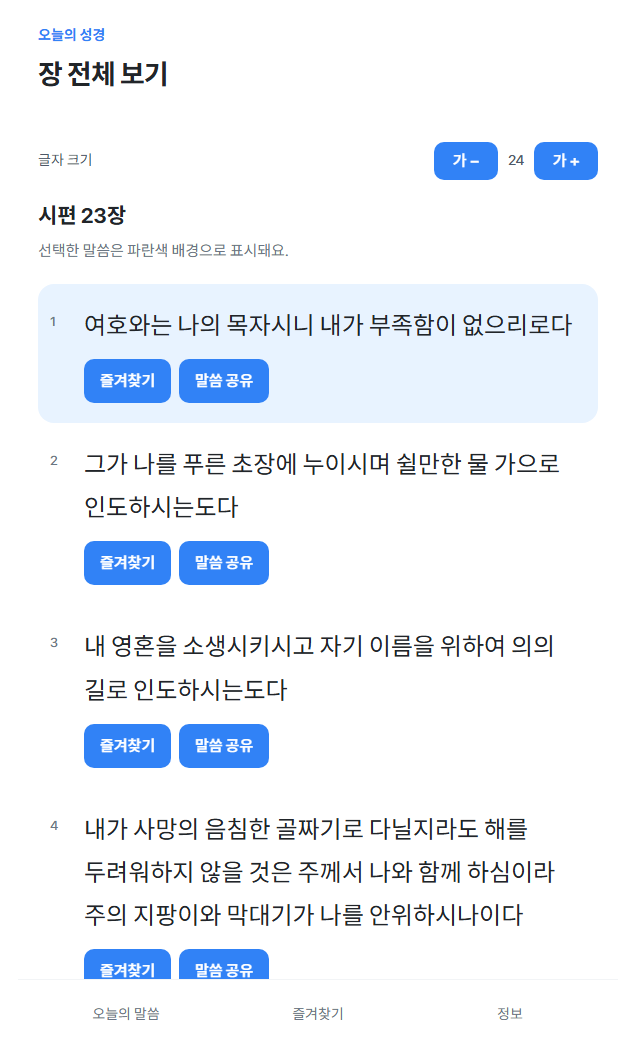
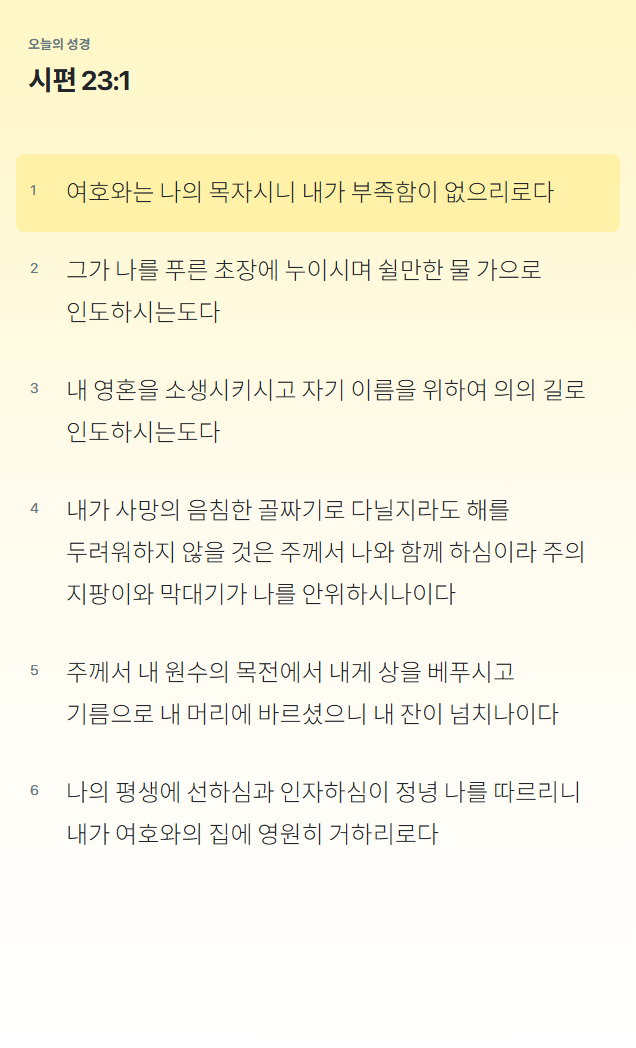
Restore legacy app design in Toss screenshots

diff --git a/toss-miniapp/src/App.tsx b/toss-miniapp/src/App.tsx
@@ -6,6 +6,16 @@ import { browserStorage, clearPreferences, defaults, FONT_SIZES, readPreferences
 import { shareText } from './share';
 import { isToss, listenBack, listenSafeArea, nativeShare } from './toss';
 
+type IconName = 'home' | 'heart' | 'info' | 'refresh' | 'share';
+function AppIcon({ name, filled = false }: { name: IconName; filled?: boolean }) {
+  const common = { width: 24, height: 24, viewBox: '0 0 24 24', fill: filled ? 'currentColor' : 'none', stroke: 'currentColor', strokeWidth: 1.8, strokeLinecap: 'round' as const, strokeLinejoin: 'round' as const, 'aria-hidden': true };
+  if (name === 'heart') return <svg {...common}><path d="M20.8 4.7a5.5 5.5 0 0 0-7.8 0L12 5.8l-1.1-1.1a5.5 5.5 0 0 0-7.8 7.8L12 21l8.8-8.5a5.5 5.5 0 0 0 0-7.8Z" /></svg>;
+  if (name === 'home') return <svg {...common}><path d="m3 10 9-7 9 7v10a1 1 0 0 1-1 1h-5v-7H9v7H4a1 1 0 0 1-1-1Z" /></svg>;
+  if (name === 'info') return <svg {...common}><circle cx="12" cy="12" r="9"/><path d="M12 11v6M12 7.5h.01"/></svg>;
+  if (name === 'refresh') return <svg {...common}><path d="M20 6v5h-5M4 18v-5h5"/><path d="M18.2 9A7 7 0 0 0 6.3 6.3L4 8m16 8-2.3 1.7A7 7 0 0 1 5.8 15"/></svg>;
+  return <svg {...common}><circle cx="18" cy="5" r="2.5"/><circle cx="6" cy="12" r="2.5"/><circle cx="18" cy="19" r="2.5"/><path d="m8.2 10.8 7.6-4.5M8.2 13.2l7.6 4.5"/></svg>;
+}
+
 type Route = { page: 'today' | 'favorites' | 'info' | 'privacy' | 'licenses' } | { page: 'chapter'; id: string };
 function getRoute(): Route {
   const hash = window.location.hash.slice(1);
@@ -87,47 +97,40 @@ export function App() {
     } finally { setSharing(false); }
   }, [sharing]);
 
-  function verseActions(v: Verse, showChapter = true) {
-    if (!v.text) return null;
-    const saved = prefs.favorites.includes(v.id);
-    return <div className="actions">
-      <Button size="medium" variant="weak" color={saved ? 'primary' : 'dark'} aria-pressed={saved} aria-label={`${reference(v)} 즐겨찾기 ${saved ? '해제' : '저장'}`} onClick={() => toggle(v)}>{saved ? '저장됨' : '즐겨찾기'}</Button>
-      <Button size="medium" variant="weak" color="dark" disabled={sharing} onClick={() => void shareVerse(v)}>말씀 공유</Button>
-      {showChapter && <Button size="medium" variant="weak" color="dark" onClick={() => go(`chapter/${encodeURIComponent(v.id)}`)}>장 전체 보기</Button>}
-    </div>;
-  }
-  const title = { today: '오늘, 마음에 담을 말씀', favorites: '나의 즐겨찾기', info: '정보와 설정', privacy: '개인정보처리방침', licenses: '오픈소스 안내', chapter: '장 전체 보기' }[route.page];
+  const fontControls = <div className="font-controls" aria-label="말씀 글자 크기">
+    <button className="round-control" aria-label="글자 작게" disabled={prefs.fontSize === FONT_SIZES[0]} onClick={() => updatePreferences({ ...prefs, fontSize: FONT_SIZES[Math.max(0, FONT_SIZES.indexOf(prefs.fontSize as typeof FONT_SIZES[number]) - 1)] }, '글자 크기를 저장했어요.')}>−</button>
+    <button className="font-reset" aria-label="글자 크기 기본값" onClick={() => updatePreferences({ ...prefs, fontSize: 24 }, '기본 글자 크기로 돌아왔어요.')}>Aa</button>
+    <button className="round-control" aria-label="글자 크게" disabled={prefs.fontSize === FONT_SIZES[4]} onClick={() => updatePreferences({ ...prefs, fontSize: FONT_SIZES[Math.min(4, FONT_SIZES.indexOf(prefs.fontSize as typeof FONT_SIZES[number]) + 1)] }, '글자 크기를 저장했어요.')}>+</button>
+  </div>;
   const selected = route.page === 'chapter' ? bible?.byId.get(route.id) : undefined;
   const chapter = selected ? bible?.chapters.get(chapterKey(selected)) : undefined;
+  const title = route.page === 'chapter' && selected
+    ? reference(selected).replace('장 ', ':').replace('절', '')
+    : { today: '오늘, 마음에 담을 말씀', favorites: '나의 즐겨찾기', info: '정보와 설정', privacy: '개인정보처리방침', licenses: '오픈소스 안내', chapter: '장 전체 보기' }[route.page];
 
-  return <div className="app">
+  return <div className={`app page-${route.page}`}>
     <main>
-      <header className="page-heading"><p className="eyebrow">오늘의 성경</p><h1 ref={heading} tabIndex={-1}>{title}</h1>
-        {route.page === 'today' && <p className="muted">잠시 멈추고, 한 구절을 천천히 읽어보세요.</p>}
-      </header>
+      {route.page !== 'today' && <header className="page-heading"><p className="eyebrow">오늘의 성경</p><h1 ref={heading} tabIndex={-1}>{title}</h1></header>}
       <p className="status" role="status" aria-live="polite">{notice}</p>
       {!bible && !error && <p role="status" className="empty">말씀을 준비하고 있어요…</p>}
       {error && <div className="empty" role="alert"><p>{error}</p><Button onClick={() => { setError(''); setAttempt(a => a + 1); }}>다시 불러오기</Button></div>}
       {bible && <>
-        {['today', 'chapter', 'favorites'].includes(route.page) && <div className="font-controls" aria-label="말씀 글자 크기">
-          <span>글자 크기</span><div className="font-buttons">
-            <Button size="medium" variant="weak" color="dark" aria-label="글자 작게" disabled={prefs.fontSize === FONT_SIZES[0]} onClick={() => updatePreferences({ ...prefs, fontSize: FONT_SIZES[Math.max(0, FONT_SIZES.indexOf(prefs.fontSize as typeof FONT_SIZES[number]) - 1)] }, '글자 크기를 저장했어요.')}>가 −</Button>
-            <span aria-label={`글자 크기 ${prefs.fontSize}`}>{prefs.fontSize}</span>
-            <Button size="medium" variant="weak" color="dark" aria-label="글자 크게" disabled={prefs.fontSize === FONT_SIZES[4]} onClick={() => updatePreferences({ ...prefs, fontSize: FONT_SIZES[Math.min(4, FONT_SIZES.indexOf(prefs.fontSize as typeof FONT_SIZES[number]) + 1)] }, '글자 크기를 저장했어요.')}>가 +</Button>
-          </div>
-        </div>}
         {route.page === 'today' && current && <>
-          <article className="verse-card" aria-label="오늘의 말씀"><p className="reference">{reference(current)}</p><blockquote style={{ fontSize: prefs.fontSize }}>{current.text}</blockquote><p className="translation">개역성경</p></article>
-          {verseActions(current)}
-          <Button display="full" onClick={() => { setCurrent(randomVerse(bible.verses, current.id)); setManualText(''); setNotice('새로운 말씀을 골랐어요.'); }}>다른 말씀 읽기</Button>
-          <p className="footnote">말씀은 성경 전체에서 무작위로 골라요.</p>
+          <article className="verse-card" aria-label="오늘의 말씀">
+            <div className="verse-card-heading"><h1 ref={heading} tabIndex={-1}>{reference(current).replace('장 ', ':').replace('절', '')}</h1><button className={`heart-button ${prefs.favorites.includes(current.id) ? 'saved' : ''}`} aria-label="즐겨찾기" onClick={() => toggle(current)}><AppIcon name="heart" filled={prefs.favorites.includes(current.id)} /></button></div>
+            <blockquote style={{ fontSize: prefs.fontSize }}>{current.text}</blockquote>
+            <button className="chapter-link" onClick={() => go(`chapter/${encodeURIComponent(current.id)}`)}>{current.chapter}장 전체 보기</button>
+            <div className="icon-actions"><button aria-label="다른 말씀 읽기" onClick={() => { setCurrent(randomVerse(bible.verses, current.id)); setManualText(''); setNotice('새로운 말씀을 골랐어요.'); }}><AppIcon name="refresh" /></button><button aria-label="말씀 공유" disabled={sharing} onClick={() => void shareVerse(current)}><AppIcon name="share" /></button></div>
+          </article>
+          {fontControls}
         </>}
         {route.page === 'favorites' && <>
+          {fontControls}
           <p className="muted">마음에 담은 말씀 {prefs.favorites.length}개</p>
-          {prefs.favorites.length === 0 ? <div className="empty"><h2>아직 저장한 말씀이 없어요</h2><p>다시 읽고 싶은 말씀을 즐겨찾기에 담아보세요.</p><Button variant="weak" onClick={() => go('today')}>말씀 읽으러 가기</Button></div> : prefs.favorites.map(id => bible.byId.get(id)).filter((v): v is Verse => !!v).map(v => <article key={v.id} className="favorite-card"><h2 className="reference">{reference(v)}</h2><p className="verse-text" style={{ fontSize: prefs.fontSize }}>{v.text}</p>{verseActions(v)}</article>)}
+          {prefs.favorites.length === 0 ? <div className="empty"><h2>즐겨찾기한 말씀이 없습니다.</h2><Button variant="weak" onClick={() => go('today')}>말씀 읽으러 가기</Button></div> : prefs.favorites.map(id => bible.byId.get(id)).filter((v): v is Verse => !!v).map(v => <article key={v.id} className="favorite-card"><div className="favorite-heading"><h2 className="reference">{reference(v).replace('장 ', ':').replace('절', '')}</h2><button className="heart-button saved" aria-label="즐겨찾기 삭제" onClick={() => toggle(v)}><AppIcon name="heart" filled /></button></div><p className="verse-text" style={{ fontSize: prefs.fontSize }}>{v.text}</p><div className="favorite-footer"><button onClick={() => go(`chapter/${encodeURIComponent(v.id)}`)}>전체 보기</button><button aria-label="말씀 공유" onClick={() => void shareVerse(v)}><AppIcon name="share" /></button></div></article>)}
           <p className="footnote">이 기기에 저장돼요. 다른 기기나 테스트 환경에는 자동으로 동기화되지 않아요.</p>
         </>}
-        {route.page === 'chapter' && (selected && chapter ? <section><h2>{selected.bookName} {selected.chapter}장</h2><p className="muted">선택한 말씀은 파란색 배경으로 표시돼요.</p><ol className="chapter-list">{chapter.map(v => <li key={v.id} value={v.verse} className={v.id === selected.id ? 'selected' : ''}><span className="verse-number">{v.verse}</span><div><p className="verse-text" style={{ fontSize: prefs.fontSize }}>{v.text || '원본 데이터에 본문이 없는 구절이에요.'}</p>{verseActions(v, false)}</div></li>)}</ol></section> : <div className="empty"><p>찾을 수 없는 말씀이에요.</p><Button onClick={() => go('today')}>오늘의 말씀 보기</Button></div>)}
+        {route.page === 'chapter' && (selected && chapter ? <section><ol className="chapter-list">{chapter.map(v => <li key={v.id} value={v.verse} className={v.id === selected.id ? 'selected' : ''}><span className="verse-number">{v.verse}</span><div><p className="verse-text" style={{ fontSize: prefs.fontSize }}>{v.text || '원본 데이터에 본문이 없는 구절이에요.'}</p></div></li>)}</ol></section> : <div className="empty"><p>찾을 수 없는 말씀이에요.</p><Button onClick={() => go('today')}>오늘의 말씀 보기</Button></div>)}
         {route.page === 'info' && <section className="info">
           <h2>매일 한 구절, 가까이</h2><p>개역성경을 읽고 마음에 남는 말씀을 간직하세요.</p>
           <div className="info-links"><Button variant="weak" color="dark" display="full" onClick={() => go('privacy')}>개인정보처리방침</Button><Button variant="weak" color="dark" display="full" onClick={() => go('licenses')}>오픈소스 안내</Button></div>
@@ -148,7 +151,7 @@ export function App() {
       </>}
       {manualText && <section className="manual-share"><h2>말씀 복사</h2><textarea aria-label="공유할 말씀" readOnly value={manualText} onFocus={e => e.target.select()} /><Button variant="weak" onClick={async () => { try { await navigator.clipboard.writeText(manualText); setNotice('말씀을 복사했어요.'); setManualText(''); } catch { setNotice('위 말씀을 길게 눌러 직접 복사해 주세요.'); } }}>복사하기</Button><Button color="dark" variant="weak" onClick={() => setManualText('')}>닫기</Button></section>}
     </main>
-    <nav className="bottom-nav" aria-label="주요 메뉴">{([['today', '오늘의 말씀'], ['favorites', '즐겨찾기'], ['info', '정보']] as const).map(([page, label]) => <button key={page} aria-current={route.page === page ? 'page' : undefined} onClick={() => go(page)}>{label}</button>)}</nav>
+    {['today', 'favorites', 'info'].includes(route.page) && <nav className="bottom-nav" aria-label="주요 메뉴">{([['today', '홈', 'home'], ['favorites', '즐겨찾기', 'heart'], ['info', '정보', 'info']] as const).map(([page, label, icon]) => <button key={page} aria-current={route.page === page ? 'page' : undefined} onClick={() => go(page)}><AppIcon name={icon} filled={page === 'favorites' && route.page === page}/><span>{label}</span></button>)}</nav>}
   </div>;
 }
 

diff --git a/toss-miniapp/src/style.css b/toss-miniapp/src/style.css
@@ -1,46 +1,69 @@
-:root { font-family: -apple-system, BlinkMacSystemFont, 'Segoe UI', sans-serif; color: #191f28; background: #fff; color-scheme: light; font-synthesis: none; --toss-safe-bottom: env(safe-area-inset-bottom, 0px); }
+@font-face { font-family: 'BookkGothic'; src: url('../../assets/fonts/BookkGothic_Light.ttf') format('truetype'); font-weight: 300; font-display: swap; }
+@font-face { font-family: 'BookkGothic'; src: url('../../assets/fonts/BookkGothic_Bold.ttf') format('truetype'); font-weight: 700; font-display: swap; }
+:root { font-family: 'BookkGothic', -apple-system, BlinkMacSystemFont, 'Segoe UI', sans-serif; color: #202124; background: #fff; color-scheme: light; font-synthesis: none; --safe-bottom: env(safe-area-inset-bottom, 0px); }
 * { box-sizing: border-box; }
+html, body, #root { min-height: 100%; }
 body { margin: 0; }
 button, textarea { font: inherit; }
 button { touch-action: manipulation; cursor: pointer; }
-button:focus-visible, textarea:focus-visible { outline: 3px solid #3182f6; outline-offset: 3px; }
+button:focus-visible, textarea:focus-visible { outline: 3px solid #596d7a; outline-offset: 3px; }
 h1:focus { outline: none; }
-.app { max-width: 600px; margin: auto; }
-main { padding: 24px 20px calc(105px + var(--toss-safe-bottom)); }
+.app { width: min(100%, 636px); min-height: 100dvh; margin: auto; background: linear-gradient(180deg, #e4f1f6 0%, #f6fafb 42%, #fff 100%); }
+main { min-height: 100dvh; padding: 34px 28px calc(105px + var(--safe-bottom)); }
+.page-today main { padding-top: 126px; }
+.page-chapter { background: linear-gradient(180deg, #fff7c5 0%, #fffbee 48%, #fff 100%); }
 .page-heading { margin-bottom: 12px; }
-.eyebrow { color: #3182f6; font-size: 14px; font-weight: 700; margin: 0 0 10px; }
+.eyebrow { color: #667780; font-size: 13px; font-weight: 700; margin: 0 0 8px; }
 h1 { font-size: 27px; line-height: 1.35; letter-spacing: -.7px; margin: 0 0 12px; word-break: keep-all; }
-h2 { font-size: 21px; line-height: 1.5; }
+h2 { font-size: 22px; line-height: 1.5; }
 p { line-height: 1.65; }
-.muted, .footnote { color: #6b7684; }
+.muted, .footnote { color: #68777f; }
 .muted { font-size: 15px; }
-.status { color: #4e5968; font-size: 14px; min-height: 24px; margin: 8px 0; }
-.font-controls { display: flex; justify-content: space-between; align-items: center; gap: 8px; margin: 12px 0 20px; color: #4e5968; font-size: 14px; }
-.font-buttons { display: flex; align-items: center; gap: 10px; }
-.verse-card { background: #f2f6fc; border-radius: 24px; padding: 28px 24px; margin-bottom: 18px; }
-.reference { color: #1b64da; font-size: 15px; font-weight: 600; margin: 0 0 20px; }
-blockquote { margin: 0; line-height: 1.8; letter-spacing: -.4px; overflow-wrap: anywhere; word-break: keep-all; }
-.translation { font-size: 13px; color: #6b7684; margin: 24px 0 0; }
-.actions { display: flex; flex-wrap: wrap; gap: 8px; margin: 16px 0 24px; }
-.actions > button { min-height: 44px; }
-.footnote { text-align: center; font-size: 13px; margin: 20px 0; }
-.bottom-nav { position: fixed; bottom: 0; left: 50%; transform: translateX(-50%); width: min(100%, 600px); display: grid; grid-template-columns: repeat(3, 1fr); background: #fff; border-top: 1px solid #f2f4f6; padding: 8px 12px calc(8px + var(--toss-safe-bottom)); z-index: 10; }
-.bottom-nav button { min-height: 52px; border: 0; background: transparent; color: #6b7684; font-size: 14px; border-radius: 12px; }
-.bottom-nav button[aria-current] { background: #e8f3ff; color: #1b64da; font-weight: 700; }
-.favorite-card { padding: 24px 0; border-bottom: 1px solid #e5e8eb; }
-.verse-text { line-height: 1.8; margin: 0; overflow-wrap: anywhere; word-break: keep-all; }
-.empty { padding: 40px 0; text-align: center; color: #4e5968; }
-.empty h2 { color: #191f28; }
-.chapter-list { list-style: none; margin: 20px 0; padding: 0; }
-.chapter-list li { display: grid; grid-template-columns: 26px 1fr; gap: 8px; padding: 20px 12px; border-radius: 16px; }
-.chapter-list li.selected { background: #e8f3ff; }
-.verse-number { color: #6b7684; font-size: 13px; padding-top: 8px; }
-.chapter-list .actions { margin: 12px 0 0; }
+.status { color: #53636c; font-size: 13px; min-height: 22px; margin: 0 0 10px; text-align: center; }
+.page-today .status:empty { display: none; }
+.verse-card { background: rgba(255,255,255,.97); border: 1px solid rgba(255,255,255,.95); border-radius: 18px; padding: 28px 26px 20px; box-shadow: 0 12px 34px rgba(55,76,88,.14), 0 2px 8px rgba(55,76,88,.08); }
+.verse-card-heading { display: flex; align-items: center; gap: 16px; margin-bottom: 18px; }
+.verse-card-heading h1 { flex: 1; margin: 0; font-size: 28px; font-weight: 700; }
+.heart-button { border: 0; background: transparent; padding: 8px; color: #f6909d; border-radius: 50%; }
+.heart-button svg { width: 30px; height: 30px; }
+blockquote { margin: 0; line-height: 1.75; letter-spacing: -.35px; overflow-wrap: anywhere; word-break: keep-all; font-weight: 300; }
+.chapter-link { display: block; margin: 16px 0 4px auto; padding: 8px 4px; border: 0; background: transparent; color: #607780; font-size: 15px; }
+.icon-actions { display: flex; justify-content: center; gap: 18px; margin-top: 2px; }
+.icon-actions button { display: grid; place-items: center; width: 48px; height: 44px; border: 0; border-radius: 50%; background: transparent; color: #25292c; }
+.icon-actions svg { width: 27px; height: 27px; }
+.font-controls { display: flex; justify-content: center; align-items: center; gap: 34px; margin: 48px auto 0; }
+.font-controls button { border: 0; color: #30363a; }
+.round-control { width: 52px; height: 52px; border-radius: 50%; background: #fff; box-shadow: 0 5px 14px rgba(55,76,88,.15); font-size: 29px; font-weight: 300; }
+.round-control:disabled { opacity: .4; }
+.font-reset { background: transparent; font-size: 22px; font-weight: 700; padding: 12px 18px; }
+.bottom-nav { position: fixed; bottom: 0; left: 50%; transform: translateX(-50%); width: min(100%, 636px); display: grid; grid-template-columns: repeat(3, 1fr); background: rgba(255,255,255,.98); border-top: 1px solid #e9edef; padding: 7px 12px calc(7px + var(--safe-bottom)); z-index: 10; }
+.bottom-nav button { min-height: 58px; border: 0; background: transparent; color: #92999d; font-size: 12px; border-radius: 12px; display: grid; place-items: center; align-content: center; gap: 3px; }
+.bottom-nav button svg { width: 23px; height: 23px; }
+.bottom-nav button[aria-current] { color: #202124; font-weight: 700; }
+.favorite-card { padding: 23px 22px; margin: 14px 0; background: rgba(255,255,255,.97); border: 1px solid #e2e7e9; border-radius: 16px; box-shadow: 0 4px 13px rgba(55,76,88,.09); }
+.favorite-heading { display: flex; align-items: center; gap: 12px; }
+.favorite-heading .reference { flex: 1; }
+.favorite-footer { display: flex; justify-content: flex-end; align-items: center; gap: 10px; margin-top: 10px; }
+.favorite-footer button { border: 0; background: transparent; color: #6540a4; padding: 8px; font-weight: 700; }
+.favorite-footer svg { width: 22px; height: 22px; }
+.reference { color: #202124; font-size: 19px; font-weight: 700; margin: 0 0 14px; }
+.verse-text { line-height: 1.75; margin: 0; overflow-wrap: anywhere; word-break: keep-all; font-weight: 300; }
+.actions { display: flex; flex-wrap: wrap; gap: 8px; margin: 14px 0 0; }
+.actions > button { min-height: 42px; }
+.footnote { text-align: center; font-size: 13px; margin: 24px 0; }
+.empty { padding: 40px 0; text-align: center; color: #53636c; }
+.empty h2 { color: #202124; }
+.chapter-list { list-style: none; margin: 20px -12px 0; padding: 0; }
+.chapter-list li { display: grid; grid-template-columns: 28px 1fr; gap: 8px; padding: 18px 14px; border-radius: 8px; }
+.chapter-list li.selected { background: #fff2a8; }
+.verse-number { color: #69777e; font-size: 14px; padding-top: 8px; }
+.chapter-list .actions { margin: 10px 0 0; }
 .info-links { display: grid; gap: 12px; margin: 28px 0; }
 .info h2, .prose h2 { margin-top: 28px; }
-.info p, .prose p { color: #4e5968; }
-.manual-share, .reset-confirm { margin: 20px 0; padding: 20px; border-radius: 16px; background: #f2f4f6; }
-.manual-share textarea { width: 100%; min-height: 170px; padding: 12px; border: 1px solid #b0b8c1; border-radius: 8px; background: #fff; color: #191f28; line-height: 1.65; }
+.info p, .prose p { color: #52616a; }
+.manual-share, .reset-confirm { margin: 20px 0; padding: 20px; border-radius: 16px; background: #fff; }
+.manual-share textarea { width: 100%; min-height: 170px; padding: 12px; border: 1px solid #b8c0c5; border-radius: 8px; background: #fff; color: #202124; line-height: 1.65; }
 .manual-share button { margin: 12px 8px 0 0; }
-.license { white-space: pre-wrap; overflow-wrap: anywhere; font-size: 12px; line-height: 1.7; color: #4e5968; }
-@media (max-width: 359px) { main { padding-left: 16px; padding-right: 16px; } h1 { font-size: 24px; } .verse-card { padding: 24px 20px; } }
+.license { white-space: pre-wrap; overflow-wrap: anywhere; font-size: 12px; line-height: 1.7; color: #52616a; }
+@media (max-width: 359px) { main { padding-left: 18px; padding-right: 18px; } .page-today main { padding-top: 90px; } .verse-card { padding: 24px 20px 18px; } .verse-card-heading h1 { font-size: 24px; } }
+@media (orientation: landscape) { .page-today main { padding-top: 40px; } .font-controls { margin-top: 24px; } }
